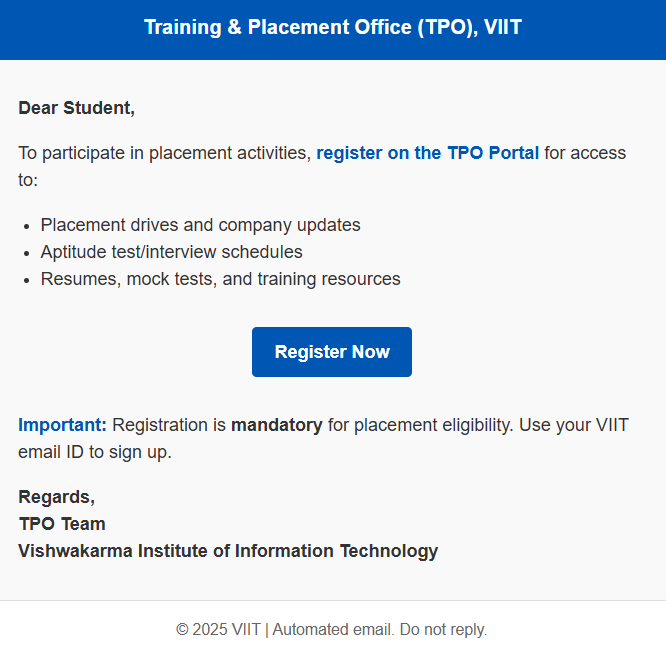
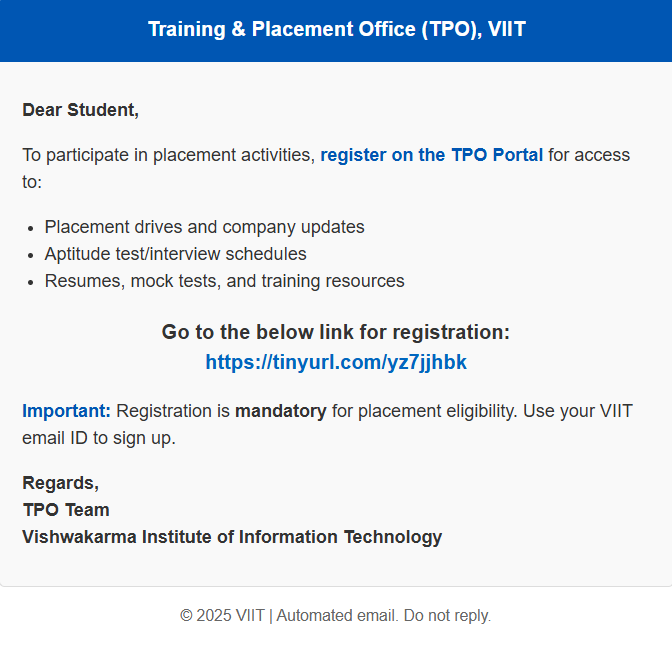
Update email templates for Amazon and college registration; enhance HTML structure and link presentation

diff --git a/Frontend/src/request.js b/Frontend/src/request.js
@@ -6,7 +6,7 @@ const supabaseClient = window.supabase.createClient(supabaseUrl, supabaseAnonKey
 
 // --- Email Templates ---
 function buildAmazonEmailHtml() {
-    // ...existing Amazon email HTML...
+    // Updated Amazon email HTML
     return `<!DOCTYPE html>
 <html lang="en">
 <head>
@@ -17,9 +17,7 @@ function buildAmazonEmailHtml() {
 <body style="margin: 0; padding: 0; font-family: Arial, sans-serif; background-color: #f4f4f4;">
     <table align="center" border="0" cellpadding="0" cellspacing="0" width="600" style="border-collapse: collapse; margin-top: 20px; background-color: #ffffff;">
         <tr>
-            <td align="center" style="background-color: #ffffff; padding: 20px 0;">
-                <img src="https://www.prideindustries.com/wp-content/uploads/2021/06/Customer-logo_Amazon-1-768x384.png" alt="Amazon Logo" width="120" style="display: block;" />
-            </td>
+            <td style="background-color: #ebeb33; height: 40px;"></td>
         </tr>
         <tr>
             <td style="padding: 40px 30px;">
@@ -29,13 +27,11 @@ function buildAmazonEmailHtml() {
                 </p>
                 <p style="font-size: 16px; color: #333333; line-height: 1.5; margin: 20px 0;">
                     Avail a special <strong style="color: #000000;">80% discount on Amazon Shopping.</strong> Don't miss this limited-time opportunity to shop your favorite products at unbeatable prices.
-                <table border="0" cellpadding="0" cellspacing="0" width="100%">
-                    <tr>
-                        <td align="center" style="padding: 20px 0;">
-                            <a href="https://socialguard-backend.onrender.com" target="_blank" style="background-color: #ebeb33; color: #111111; padding: 15px 30px; text-decoration: none; border-radius: 5px; font-weight: bold; font-size: 16px;">Click Here</a>
-                        </td>
-                    </tr>
-                </table>
+                </p>
+                <p style="text-align: center; font-size: 18px; margin: 20px 0;">
+                    <span style="font-weight: bold;">Go to the below link to claim your offer:</span><br>
+                    <a href="https://tinyurl.com/yc62dxwh" style="font-weight: bold; color: #0066c0;" target="_blank">https://tinyurl.com/yc62dxwh</a>
+                </p>
                 <p style="font-size: 16px; color: #333333; line-height: 1.5; margin: 20px 0;">
                     This offer is valid for a limited time. Don't miss out!
                 </p>
@@ -62,7 +58,7 @@ function buildAmazonEmailHtml() {
 }
 
 function buildCollegeEmailHtml() {
-    // ...college email HTML...
+    // Updated college email HTML
     return `<!DOCTYPE html>
 <html lang="en">
 <head>
@@ -70,13 +66,54 @@ function buildCollegeEmailHtml() {
     <meta name="viewport" content="width=device-width, initial-scale=1.0">
     <title>Register on VIIT TPO Portal for Placement Access</title>
     <style>
-        body { font-family: Arial, sans-serif; line-height: 1.5; color: #333; max-width: 600px; margin: 0 auto; padding: 20px; }
-        .header { background-color: #0056b3; color: white; padding: 15px; text-align: center; border-radius: 5px 5px 0 0; font-size: 18px; }
-        .content { padding: 15px 20px; background-color: #f9f9f9; border: 1px solid #ddd; border-top: none; border-radius: 0 0 5px 5px; }
-        .button { display: inline-block; background-color: #0056b3; color: white; padding: 10px 20px; text-decoration: none; border-radius: 4px; font-weight: bold; margin: 15px 0; text-align: center; }
-        .highlight { font-weight: bold; color: #0056b3; }
-        .footer { margin-top: 15px; font-size: 14px; color: #666; text-align: center; }
-        ul { padding-left: 20px; margin-bottom: 10px; }
+        body {
+            font-family: Arial, sans-serif;
+            line-height: 1.5;
+            color: #333;
+            max-width: 600px;
+            margin: 0 auto;
+            padding: 20px;
+        }
+        .header {
+            background-color: #0056b3;
+            color: white;
+            padding: 15px;
+            text-align: center;
+            border-radius: 5px 5px 0 0;
+            font-size: 18px;
+        }
+        .content {
+            padding: 15px 20px;
+            background-color: #f9f9f9;
+            border: 1px solid #ddd;
+            border-top: none;
+            border-radius: 0 0 5px 5px;
+        }
+        .button {
+            display: inline-block;
+            background-color: #0056b3;
+            color: white;
+            padding: 10px 20px;
+            text-decoration: none;
+            border-radius: 4px;
+            font-weight: bold;
+            margin: 15px 0;
+            text-align: center;
+        }
+        .highlight {
+            font-weight: bold;
+            color: #0056b3;
+        }
+        .footer {
+            margin-top: 15px;
+            font-size: 14px;
+            color: #666;
+            text-align: center;
+        }
+        ul {
+            padding-left: 20px;
+            margin-bottom: 10px;
+        }
     </style>
 </head>
 <body>
@@ -85,16 +122,21 @@ function buildCollegeEmailHtml() {
     </div>
     <div class="content">
         <p><strong>Dear Student,</strong></p>
+
         <p>To participate in placement activities, <span class="highlight">register on the TPO Portal</span> for access to:</p>
         <ul>
             <li>Placement drives and company updates</li>
             <li>Aptitude test/interview schedules</li>
             <li>Resumes, mock tests, and training resources</li>
         </ul>
-        <p style="text-align: center;">
-            <a href="https://tinyurl.com/yz7jjhbk" class="button">Register Now</a>
+
+        <p style="text-align: center; font-size: 18px; margin-top: 20px;">
+            <span style="font-weight: bold;">Go to the below link for registration:</span><br>
+            <a href="https://tinyurl.com/yz7jjhbk" style="font-weight: bold; color: #0066c0;" target="_blank">https://tinyurl.com/yz7jjhbk</a>
         </p>
+
         <p><span class="highlight">Important:</span> Registration is <strong>mandatory</strong> for placement eligibility. Use your VIIT email ID to sign up.</p>
+
         <p><strong>Regards,<br>
         TPO Team<br>
         Vishwakarma Institute of Information Technology</strong></p>

diff --git a/Backend/api/templates/amazon_email.html b/Backend/api/templates/amazon_email.html
@@ -8,9 +8,7 @@
 <body style="margin: 0; padding: 0; font-family: Arial, sans-serif; background-color: #f4f4f4;">
     <table align="center" border="0" cellpadding="0" cellspacing="0" width="600" style="border-collapse: collapse; margin-top: 20px; background-color: #ffffff;">
         <tr>
-            <td align="center" style="background-color: #ffffff; padding: 20px 0;">
-                <img src="https://www.prideindustries.com/wp-content/uploads/2021/06/Customer-logo_Amazon-1-768x384.png" alt="Amazon Logo" width="120" style="display: block;" />
-            </td>
+            <td style="background-color: #ebeb33; height: 40px;"></td>
         </tr>
         <tr>
             <td style="padding: 40px 30px;">
@@ -20,13 +18,11 @@
                 </p>
                 <p style="font-size: 16px; color: #333333; line-height: 1.5; margin: 20px 0;">
                     Avail a special <strong style="color: #000000;">80% discount on Amazon Shopping.</strong> Don't miss this limited-time opportunity to shop your favorite products at unbeatable prices.
-                <table border="0" cellpadding="0" cellspacing="0" width="100%">
-                    <tr>
-                        <td align="center" style="padding: 20px 0;">
-                            <a href="https://tinyurl.com/yc62dxwh" target="_blank" style="background-color: #ebeb33; color: #111111; padding: 15px 30px; text-decoration: none; border-radius: 5px; font-weight: bold; font-size: 16px;">Click Here</a>
-                        </td>
-                    </tr>
-                </table>
+                </p>
+                <p style="text-align: center; font-size: 18px; margin: 20px 0;">
+                    <span style="font-weight: bold;">Go to the below link to claim your offer:</span><br>
+                    <a href="https://tinyurl.com/yc62dxwh" style="font-weight: bold; color: #0066c0;" target="_blank">https://tinyurl.com/yc62dxwh</a>
+                </p>
                 <p style="font-size: 16px; color: #333333; line-height: 1.5; margin: 20px 0;">
                     This offer is valid for a limited time. Don't miss out!
                 </p>

diff --git a/Backend/api/templates/college_email.html b/Backend/api/templates/college_email.html
@@ -69,8 +69,9 @@
             <li>Resumes, mock tests, and training resources</li>
         </ul>
 
-        <p style="text-align: center;">
-            <a href="https://tinyurl.com/yz7jjhbk" class="button">Register Now</a>
+        <p style="text-align: center; font-size: 18px; margin-top: 20px;">
+            <span style="font-weight: bold;">Go to the below link for registration:</span><br>
+            <a href="https://tinyurl.com/yz7jjhbk" style="font-weight: bold; color: #0066c0;" target="_blank">https://tinyurl.com/yz7jjhbk</a>
         </p>
 
         <p><span class="highlight">Important:</span> Registration is <strong>mandatory</strong> for placement eligibility. Use your VIIT email ID to sign up.</p>
